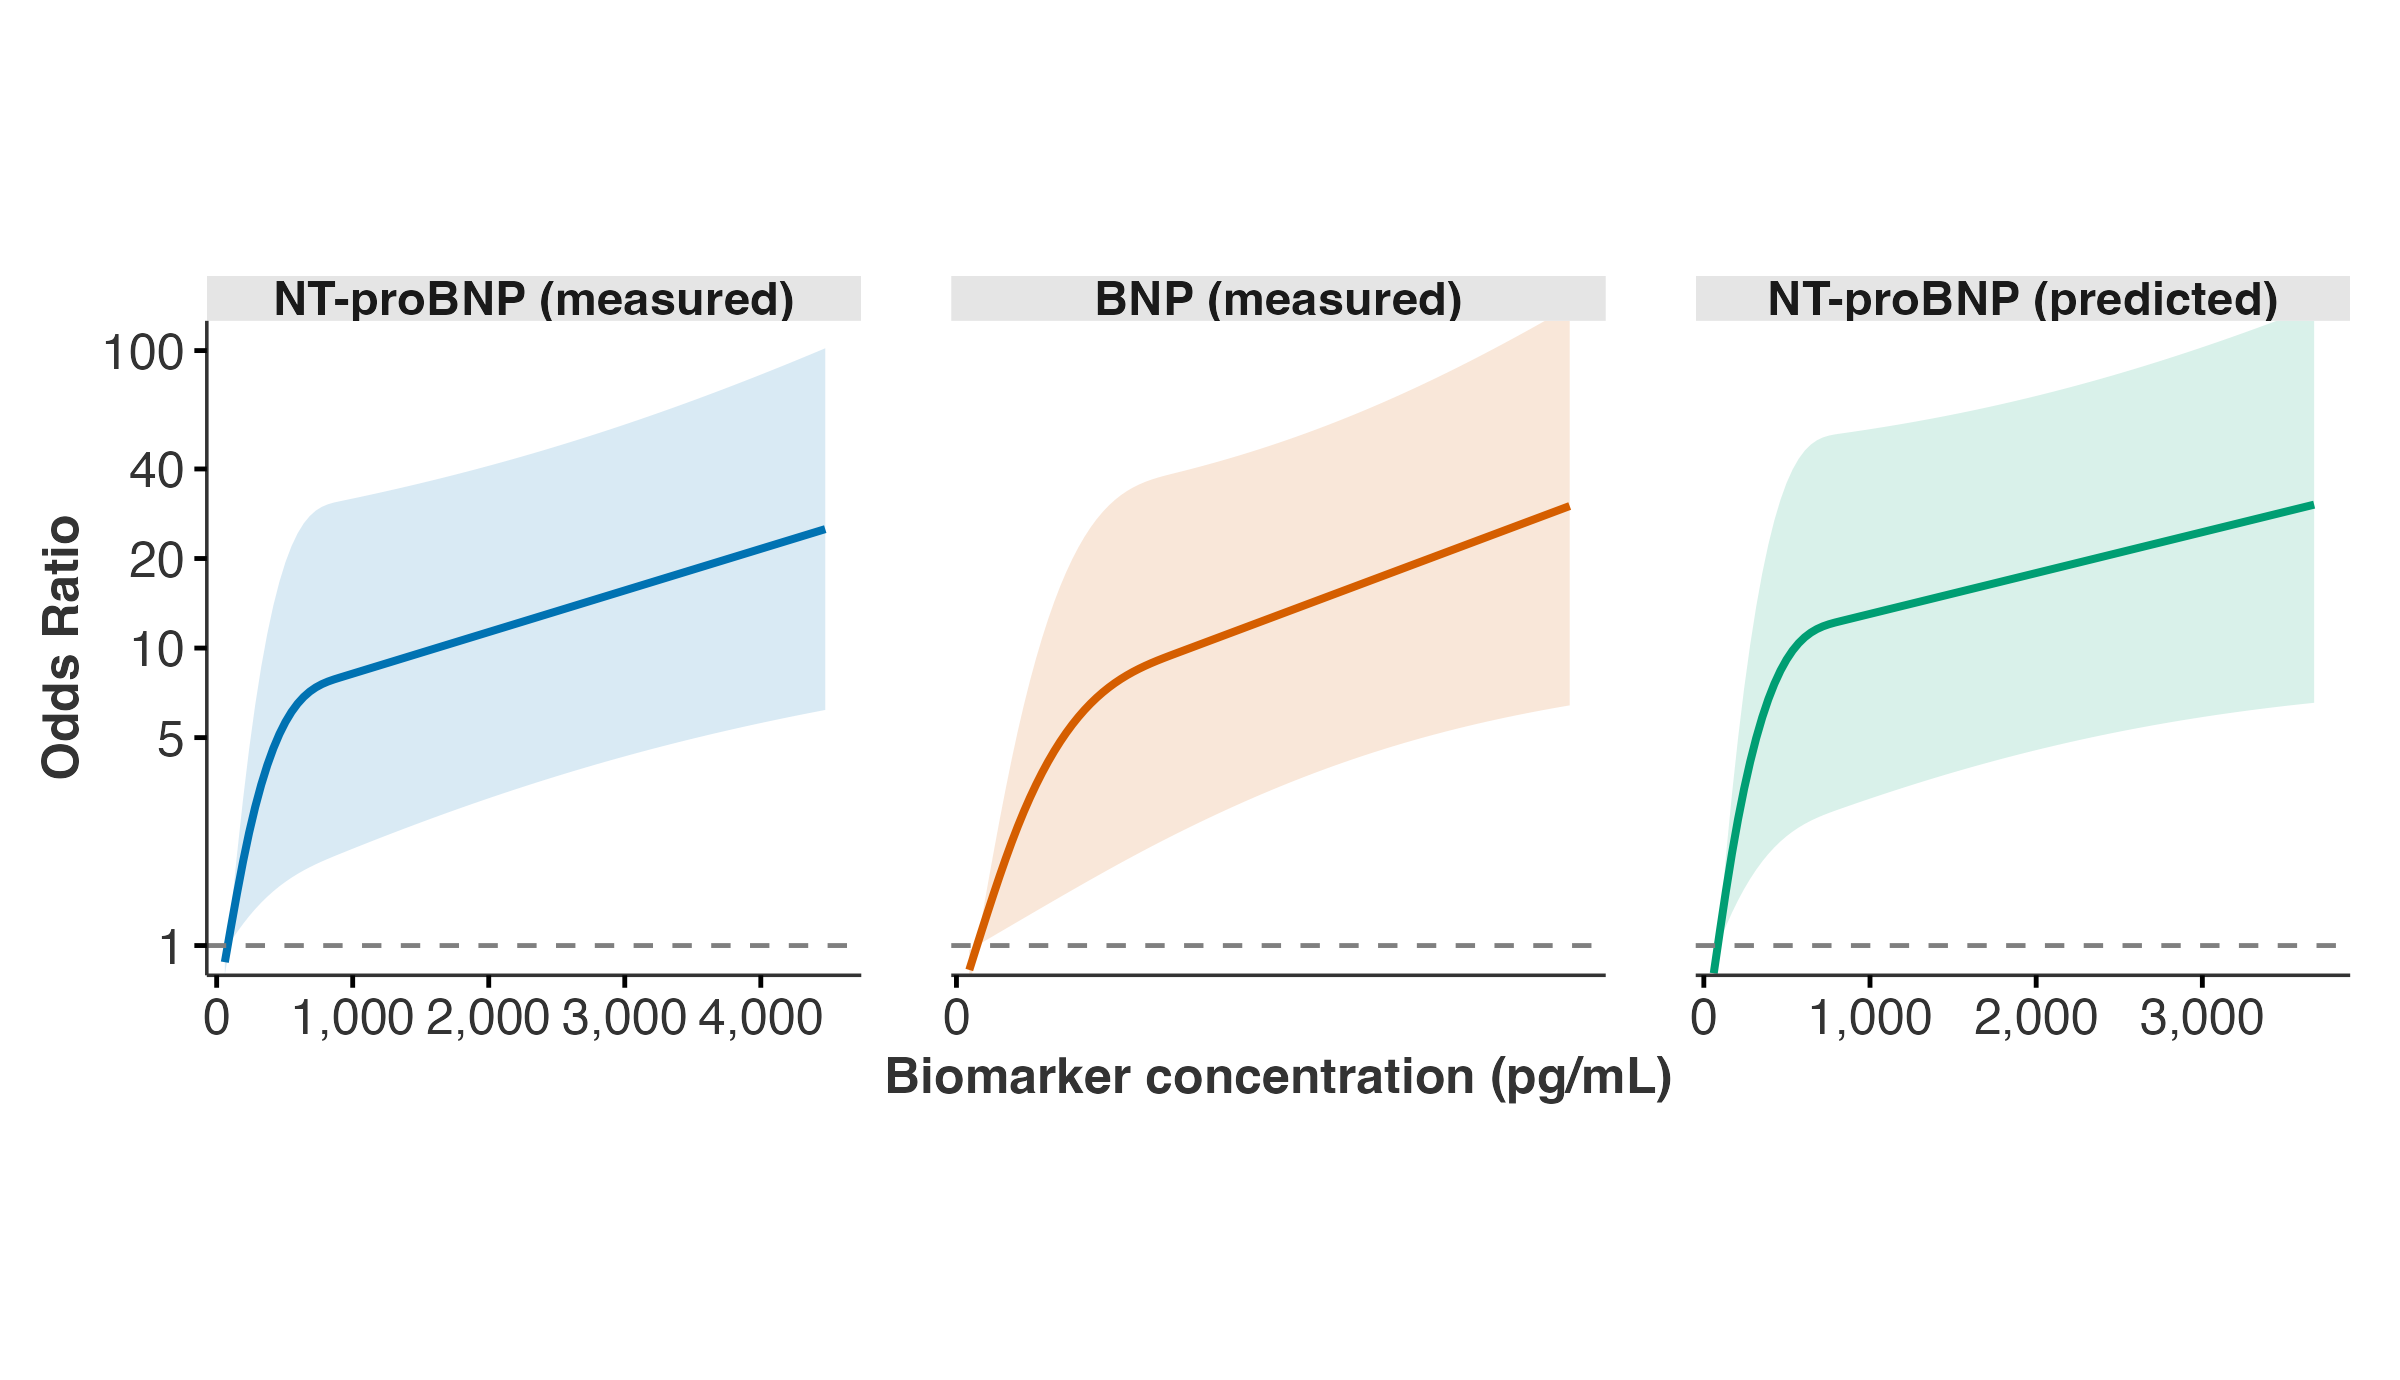
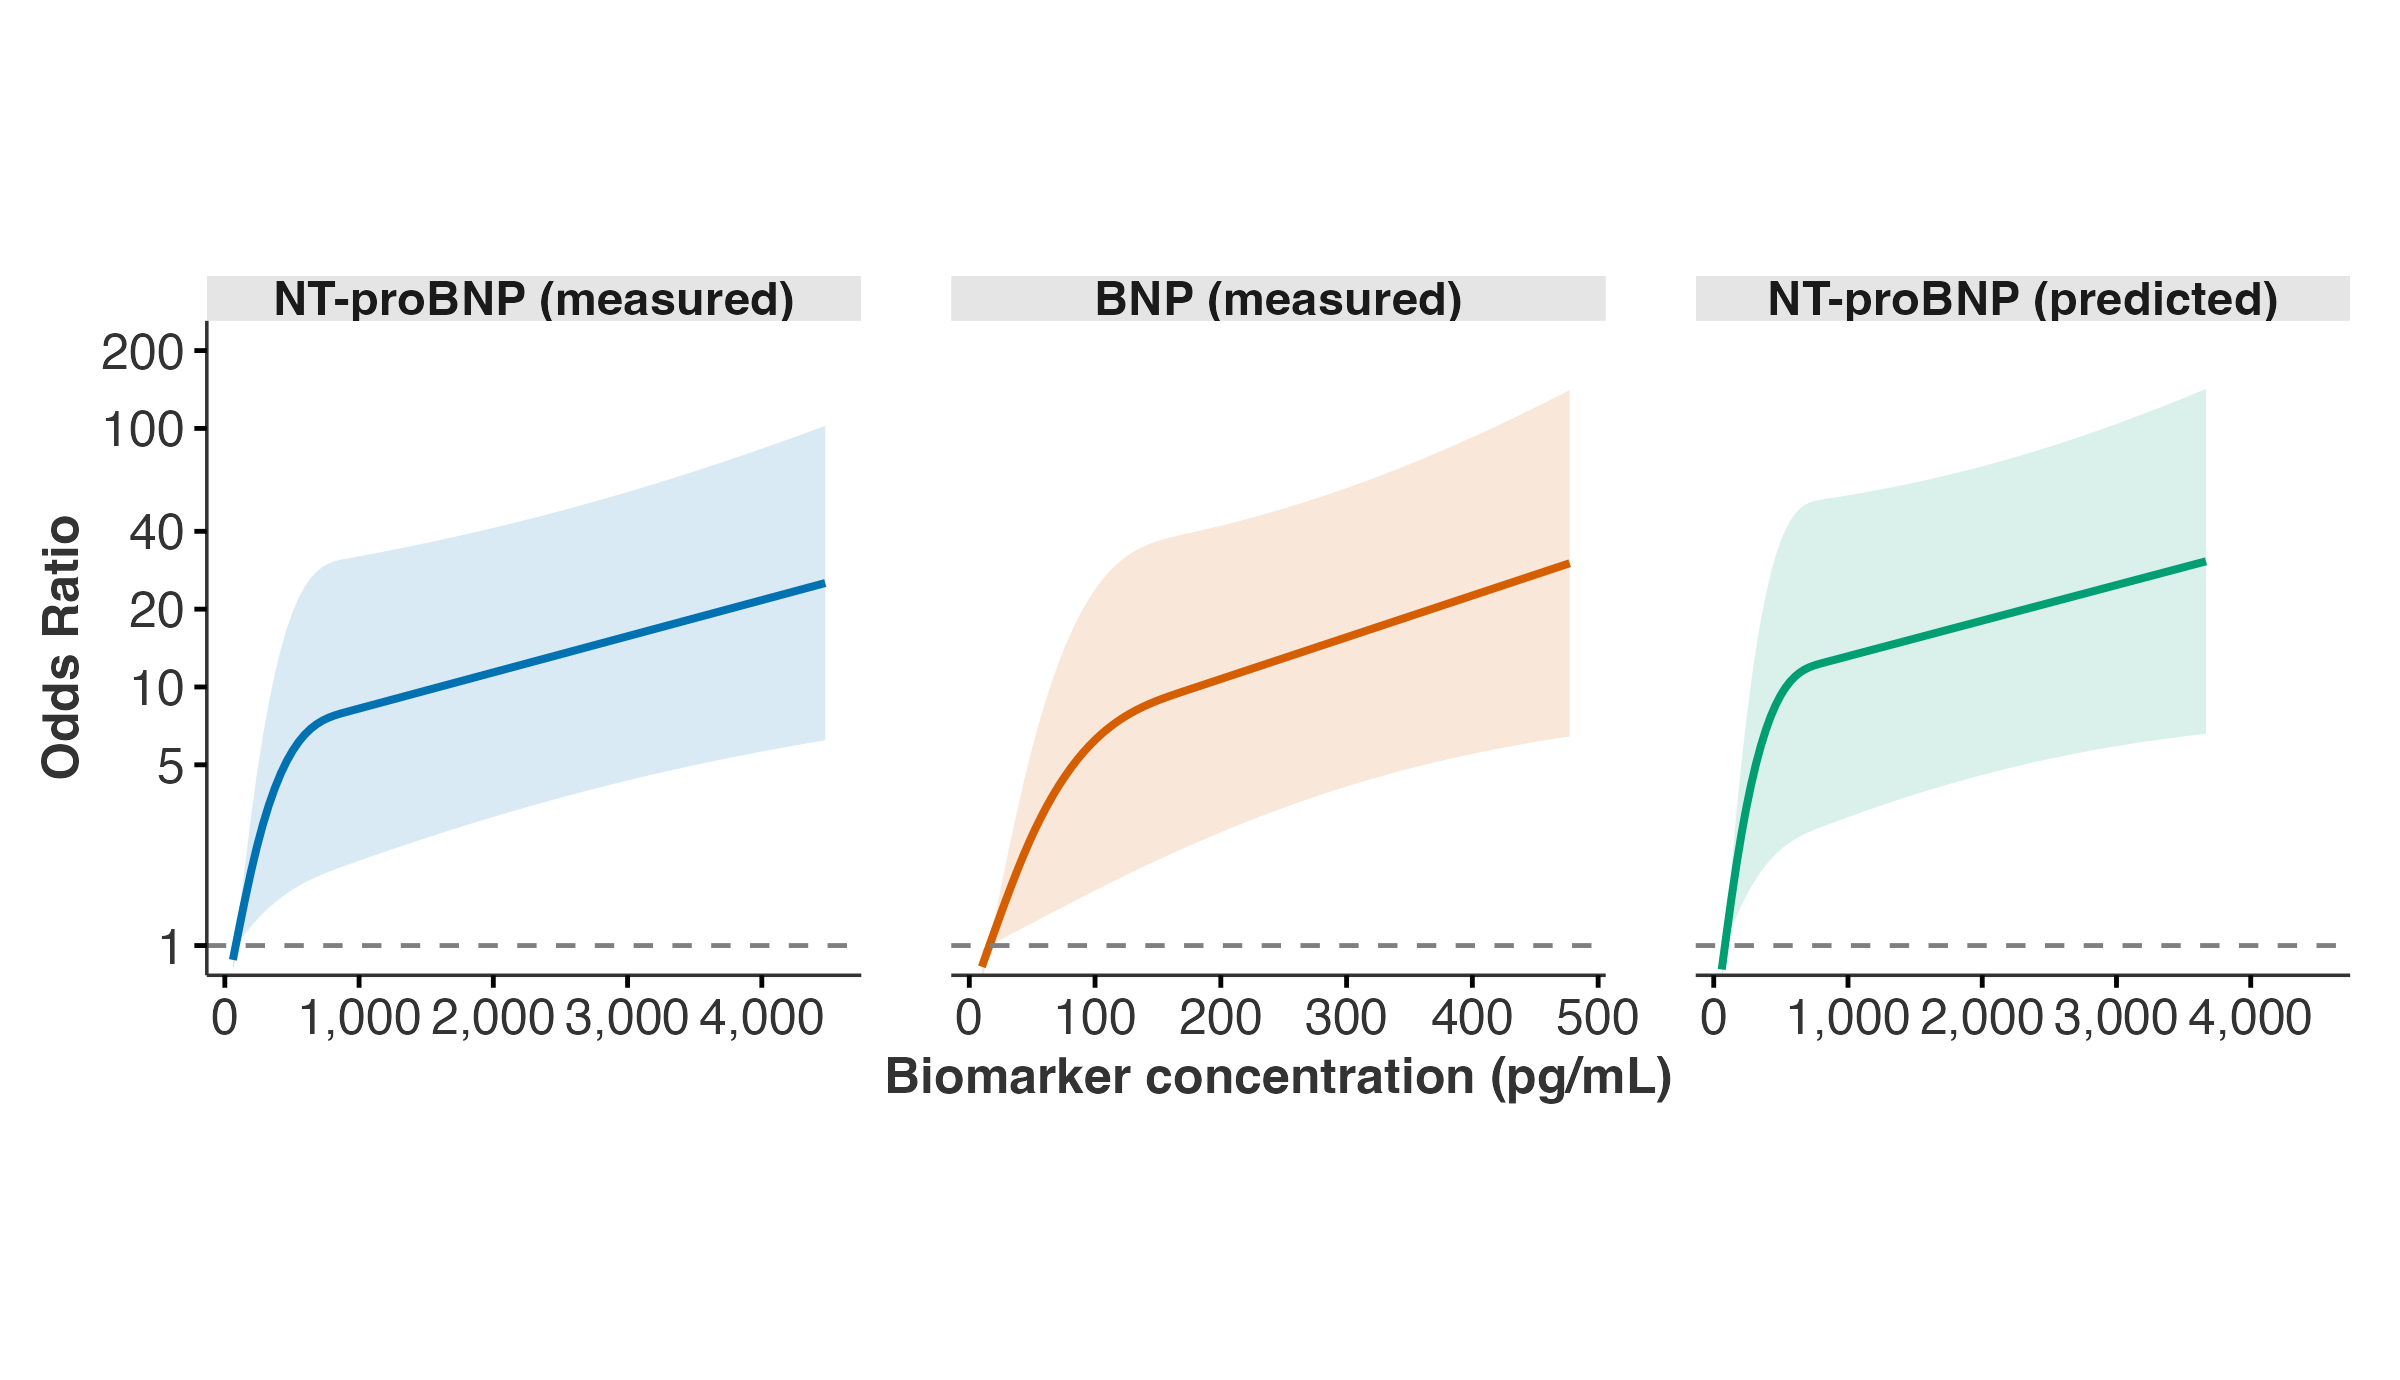
Update outcome analysis and report after chart review

diff --git a/README.md b/README.md
@@ -30,6 +30,8 @@ BNP conversion/
 │   ├── 08_report.R           # Report generation
 │   └── main.R                # Orchestrator script
 ├── assets/                   # Output directory (plots, tables, report)
+├── checks/
+│   └── verify_release.R      # Cohort, event, and release-output checks
 ├── renv.lock                 # Package version lockfile
 └── BNP NTproBNP protocol.md  # Study protocol
 ```
@@ -38,7 +40,7 @@ BNP conversion/
 
 ### Prerequisites
 
-- R >= 4.0.0
+- R 4.5.2 (the version recorded in `renv.lock`)
 - RStudio (recommended)
 
 ### Setup
@@ -58,6 +60,10 @@ BNP conversion/
 
    This installs all dependencies with the exact versions recorded in `renv.lock`, ensuring reproducibility.
 
+### Private input data
+
+Patient-level CSV, Excel, and Word files are intentionally excluded from version control. Place the current `BNP Data Analysis Jan 9 2025.csv` in the project root before running the analysis.
+
 ## Running the Analysis
 
 From the project root directory in R:
@@ -67,6 +73,12 @@ source("R/main.R")
 ```
 
 This executes all analysis scripts in order and produces outputs in the `assets/` directory.
+
+For the current locked analysis dataset, the expected model cohort is 448 participants. The secondary outcome cohort contains 423 participants, including 20 events. After running the analysis, verify the release outputs with:
+
+```r
+source("checks/verify_release.R")
+```
 
 ### Configuration
 
@@ -84,7 +96,8 @@ Key parameters can be modified in `R/00_config.R`:
 ## Outputs
 
 ### Report
-- `assets/analysis_report.docx` — Publication-ready Word document with all tables and figures
+- `assets/analysis_report.Rmd` — Reproducible methods and results report source
+- `assets/analysis_report.docx` — Generated internal Word report (not tracked)
 
 ### Figures
 | File | Description |
@@ -92,7 +105,7 @@ Key parameters can be modified in `R/00_config.R`:
 | `calibration_plot_kasahara_log.png` | Kasahara model calibration (log scale) |
 | `calibration_plot_kasahara_recal_ols_loglog.png` | Recalibrated model calibration |
 | `BA_kasahara_*.png` | Bland-Altman plots (relative and absolute error) |
-| `outcome_assoc_combined.png` | Biomarker-outcome association curves |
+| `outcome_assoc_combined.png` | Biomarker-outcome curves with matched NT-proBNP x-axis ranges and complete confidence bands |
 
 ### Data Files (.rds)
 | File | Description |
@@ -101,6 +114,8 @@ Key parameters can be modified in `R/00_config.R`:
 | `kasahara_recal_optimism_corrected.rds` | Optimism-corrected performance metrics |
 | `nested_model_comparison.rds` | Likelihood ratio test results |
 | `bnp_threshold_sensitivity.rds` | Derived BNP thresholds by patient profile |
+| `ntprobnp_cat_summary.rds` | Measured NT-proBNP outcome counts by category |
+| `pred_cat_summary.rds` | Predicted NT-proBNP outcome counts by category |
 
 ## Statistical Methods
 
@@ -160,7 +175,3 @@ Input data should contain the following variables:
 
 - Kasahara S, et al. Conversion formula from B-type natriuretic peptide to N-terminal proBNP values in patients with cardiovascular diseases. *Int J Cardiol*. 2019;280:184-189.
 - Duceppe E, et al. Preoperative N-Terminal Pro-B-Type Natriuretic Peptide and Cardiovascular Events After Noncardiac Surgery. *Ann Intern Med*. 2020;172(12):843.
-
-## Contact
-
-the author of the package
